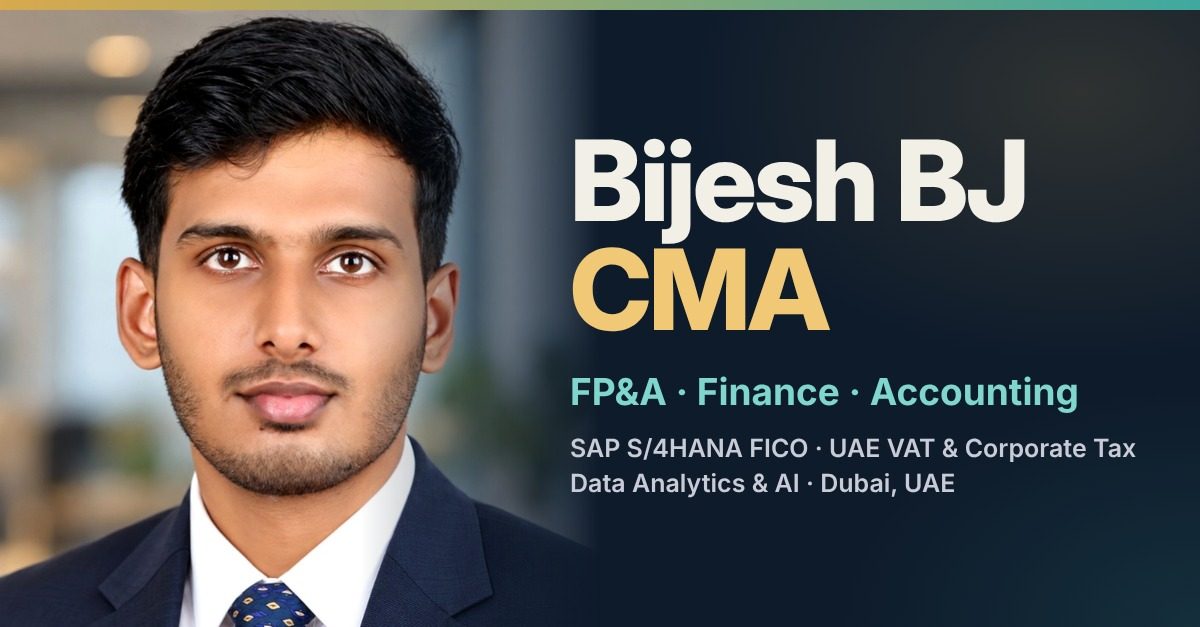
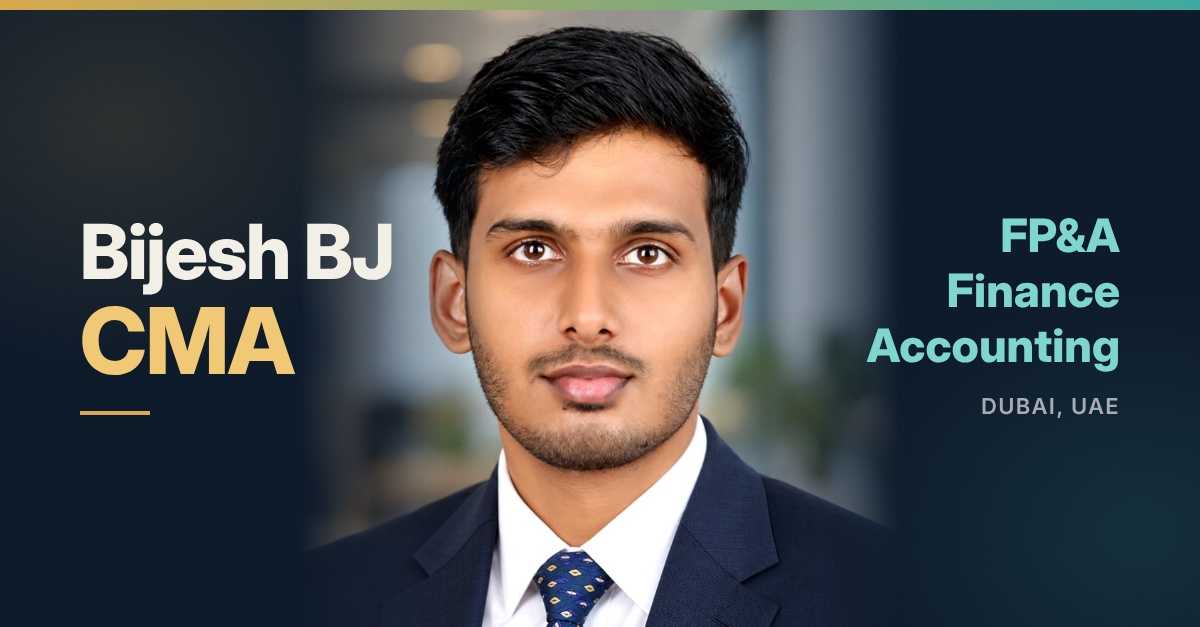
Preview card: centre and enlarge face for sharp small thumbnails
Claude-Session: https://claude.ai/code/session_01BNz9B2AMKDvx2qBeBHuAEm

diff --git a/projects/financial-model.html b/projects/financial-model.html
@@ -10,11 +10,11 @@
 <meta property="og:title" content="Integrated 3-Statement Financial Model & DCF Valuation — Bijesh BJ, CMA | Finance & FP&A | SAP FICO | Data Analytics">
 <meta property="og:description" content="Scenario-driven 3-statement model and DCF to CFI standards with Base / Upside / Downside cases, sensitivity grid and integrity checks.">
 <meta property="og:url" content="https://cmabijeshbj-web.github.io/projects/financial-model.html">
-<meta property="og:image" content="https://cmabijeshbj-web.github.io/assets/og-image.jpg?v=7">
+<meta property="og:image" content="https://cmabijeshbj-web.github.io/assets/og-image.jpg?v=9">
 <meta property="og:image:width" content="1200">
 <meta property="og:image:height" content="627">
 <meta property="og:image:alt" content="Bijesh BJ, CMA — Finance &amp; FP&amp;A Portfolio">
-<meta name="twitter:image" content="https://cmabijeshbj-web.github.io/assets/og-image.jpg?v=7">
+<meta name="twitter:image" content="https://cmabijeshbj-web.github.io/assets/og-image.jpg?v=9">
 <meta name="twitter:card" content="summary_large_image">
 <link rel="preconnect" href="https://fonts.googleapis.com">
 <link href="https://fonts.googleapis.com/css2?family=Space+Grotesk:wght@500;600;700&family=IBM+Plex+Sans:wght@400;500;600&family=IBM+Plex+Mono:wght@400;500&display=swap" rel="stylesheet">

diff --git a/projects/fpa-variance-kpi.html b/projects/fpa-variance-kpi.html
@@ -10,11 +10,11 @@
 <meta property="og:title" content="FP&A Performance, Variance & KPI Analysis — Bijesh BJ, CMA | Finance & FP&A | SAP FICO | Data Analytics">
 <meta property="og:description" content="CFO-style FP&A pack: budget vs actual across 5 business units and 6 regions, KPI scorecard, RAG status, variance bridge and auto-commentary.">
 <meta property="og:url" content="https://cmabijeshbj-web.github.io/projects/fpa-variance-kpi.html">
-<meta property="og:image" content="https://cmabijeshbj-web.github.io/assets/og-image.jpg?v=7">
+<meta property="og:image" content="https://cmabijeshbj-web.github.io/assets/og-image.jpg?v=9">
 <meta property="og:image:width" content="1200">
 <meta property="og:image:height" content="627">
 <meta property="og:image:alt" content="Bijesh BJ, CMA — Finance &amp; FP&amp;A Portfolio">
-<meta name="twitter:image" content="https://cmabijeshbj-web.github.io/assets/og-image.jpg?v=7">
+<meta name="twitter:image" content="https://cmabijeshbj-web.github.io/assets/og-image.jpg?v=9">
 <meta name="twitter:card" content="summary_large_image">
 <link rel="preconnect" href="https://fonts.googleapis.com">
 <link href="https://fonts.googleapis.com/css2?family=Space+Grotesk:wght@500;600;700&family=IBM+Plex+Sans:wght@400;500;600&family=IBM+Plex+Mono:wght@400;500&display=swap" rel="stylesheet">

diff --git a/projects/uae-corporate-tax.html b/projects/uae-corporate-tax.html
@@ -10,11 +10,11 @@
 <meta property="og:title" content="UAE Corporate Tax Computation Model — Bijesh BJ, CMA | Finance & FP&A | SAP FICO | Data Analytics">
 <meta property="og:description" content="UAE corporate tax computation: ledger-driven add-backs, exempt income, interest limitation, loss relief, 0%/9% bands and rate reconciliation.">
 <meta property="og:url" content="https://cmabijeshbj-web.github.io/projects/uae-corporate-tax.html">
-<meta property="og:image" content="https://cmabijeshbj-web.github.io/assets/og-image.jpg?v=7">
+<meta property="og:image" content="https://cmabijeshbj-web.github.io/assets/og-image.jpg?v=9">
 <meta property="og:image:width" content="1200">
 <meta property="og:image:height" content="627">
 <meta property="og:image:alt" content="Bijesh BJ, CMA — Finance &amp; FP&amp;A Portfolio">
-<meta name="twitter:image" content="https://cmabijeshbj-web.github.io/assets/og-image.jpg?v=7">
+<meta name="twitter:image" content="https://cmabijeshbj-web.github.io/assets/og-image.jpg?v=9">
 <meta name="twitter:card" content="summary_large_image">
 <link rel="preconnect" href="https://fonts.googleapis.com">
 <link href="https://fonts.googleapis.com/css2?family=Space+Grotesk:wght@500;600;700&family=IBM+Plex+Sans:wght@400;500;600&family=IBM+Plex+Mono:wght@400;500&display=swap" rel="stylesheet">

diff --git a/projects/sql-analysis.html b/projects/sql-analysis.html
@@ -10,11 +10,11 @@
 <meta property="og:title" content="Financial Data Analysis Using SQL — Bijesh BJ, CMA | Finance & FP&A | SAP FICO | Data Analytics">
 <meta property="og:description" content="14 tested SQL queries on a 1,785-invoice billing register: growth, margin, concentration, receivables ageing, DSO and collection risk.">
 <meta property="og:url" content="https://cmabijeshbj-web.github.io/projects/sql-analysis.html">
-<meta property="og:image" content="https://cmabijeshbj-web.github.io/assets/og-image.jpg?v=7">
+<meta property="og:image" content="https://cmabijeshbj-web.github.io/assets/og-image.jpg?v=9">
 <meta property="og:image:width" content="1200">
 <meta property="og:image:height" content="627">
 <meta property="og:image:alt" content="Bijesh BJ, CMA — Finance &amp; FP&amp;A Portfolio">
-<meta name="twitter:image" content="https://cmabijeshbj-web.github.io/assets/og-image.jpg?v=7">
+<meta name="twitter:image" content="https://cmabijeshbj-web.github.io/assets/og-image.jpg?v=9">
 <meta name="twitter:card" content="summary_large_image">
 <link rel="preconnect" href="https://fonts.googleapis.com">
 <link href="https://fonts.googleapis.com/css2?family=Space+Grotesk:wght@500;600;700&family=IBM+Plex+Sans:wght@400;500;600&family=IBM+Plex+Mono:wght@400;500&display=swap" rel="stylesheet">

diff --git a/projects/powerbi-dashboard.html b/projects/powerbi-dashboard.html
@@ -10,11 +10,11 @@
 <meta property="og:title" content="Interactive FP&A Analytics Dashboard — Bijesh BJ, CMA | Finance & FP&A | SAP FICO | Data Analytics">
 <meta property="og:description" content="Interactive executive dashboard: FY / BU / Region filters drive every KPI, chart, heatmap, bridge and commentary.">
 <meta property="og:url" content="https://cmabijeshbj-web.github.io/projects/powerbi-dashboard.html">
-<meta property="og:image" content="https://cmabijeshbj-web.github.io/assets/og-image.jpg?v=7">
+<meta property="og:image" content="https://cmabijeshbj-web.github.io/assets/og-image.jpg?v=9">
 <meta property="og:image:width" content="1200">
 <meta property="og:image:height" content="627">
 <meta property="og:image:alt" content="Bijesh BJ, CMA — Finance &amp; FP&amp;A Portfolio">
-<meta name="twitter:image" content="https://cmabijeshbj-web.github.io/assets/og-image.jpg?v=7">
+<meta name="twitter:image" content="https://cmabijeshbj-web.github.io/assets/og-image.jpg?v=9">
 <meta name="twitter:card" content="summary_large_image">
 <link rel="preconnect" href="https://fonts.googleapis.com">
 <link href="https://fonts.googleapis.com/css2?family=Space+Grotesk:wght@500;600;700&family=IBM+Plex+Sans:wght@400;500;600&family=IBM+Plex+Mono:wght@400;500&display=swap" rel="stylesheet">

diff --git a/projects/uae-vat.html b/projects/uae-vat.html
@@ -10,11 +10,11 @@
 <meta property="og:title" content="UAE VAT Calculation, Return & Reconciliation — Bijesh BJ, CMA | Finance & FP&A | SAP FICO | Data Analytics">
 <meta property="og:description" content="UAE VAT compliance pack: 1,250 invoices mapped to VAT 201, exception testing and turnover reconciliation.">
 <meta property="og:url" content="https://cmabijeshbj-web.github.io/projects/uae-vat.html">
-<meta property="og:image" content="https://cmabijeshbj-web.github.io/assets/og-image.jpg?v=7">
+<meta property="og:image" content="https://cmabijeshbj-web.github.io/assets/og-image.jpg?v=9">
 <meta property="og:image:width" content="1200">
 <meta property="og:image:height" content="627">
 <meta property="og:image:alt" content="Bijesh BJ, CMA — Finance &amp; FP&amp;A Portfolio">
-<meta name="twitter:image" content="https://cmabijeshbj-web.github.io/assets/og-image.jpg?v=7">
+<meta name="twitter:image" content="https://cmabijeshbj-web.github.io/assets/og-image.jpg?v=9">
 <meta name="twitter:card" content="summary_large_image">
 <link rel="preconnect" href="https://fonts.googleapis.com">
 <link href="https://fonts.googleapis.com/css2?family=Space+Grotesk:wght@500;600;700&family=IBM+Plex+Sans:wght@400;500;600&family=IBM+Plex+Mono:wght@400;500&display=swap" rel="stylesheet">

diff --git a/certifications.html b/certifications.html
@@ -10,11 +10,11 @@
 <meta property="og:title" content="Education & Certifications — Bijesh BJ, CMA | Finance & FP&A | SAP FICO | Data Analytics">
 <meta property="og:description" content="Education and certifications held by Bijesh BJ — CMA, IMA Data Analytics, UAE VAT and Corporate Tax, M.Com, B.Com.">
 <meta property="og:url" content="https://cmabijeshbj-web.github.io/certifications.html">
-<meta property="og:image" content="https://cmabijeshbj-web.github.io/assets/og-image.jpg?v=7">
+<meta property="og:image" content="https://cmabijeshbj-web.github.io/assets/og-image.jpg?v=9">
 <meta property="og:image:width" content="1200">
 <meta property="og:image:height" content="627">
 <meta property="og:image:alt" content="Bijesh BJ, CMA — Finance &amp; FP&amp;A Portfolio">
-<meta name="twitter:image" content="https://cmabijeshbj-web.github.io/assets/og-image.jpg?v=7">
+<meta name="twitter:image" content="https://cmabijeshbj-web.github.io/assets/og-image.jpg?v=9">
 <meta name="twitter:card" content="summary_large_image">
 <link rel="preconnect" href="https://fonts.googleapis.com">
 <link href="https://fonts.googleapis.com/css2?family=Space+Grotesk:wght@500;600;700&family=IBM+Plex+Sans:wght@400;500;600&family=IBM+Plex+Mono:wght@400;500&display=swap" rel="stylesheet">

diff --git a/projects/powerbi-dashboard-live.html b/projects/powerbi-dashboard-live.html
@@ -10,11 +10,11 @@
 <meta property="og:title" content="Executive FP&A Dashboard (Live) — Bijesh BJ, CMA">
 <meta property="og:description" content="Interactive executive FP&A dashboard with FY / BU / Region filters, variance bridge, heatmap and receivables ageing.">
 <meta property="og:url" content="https://cmabijeshbj-web.github.io/projects/powerbi-dashboard-live.html">
-<meta property="og:image" content="https://cmabijeshbj-web.github.io/assets/og-image.jpg?v=7">
+<meta property="og:image" content="https://cmabijeshbj-web.github.io/assets/og-image.jpg?v=9">
 <meta property="og:image:width" content="1200">
 <meta property="og:image:height" content="627">
 <meta property="og:image:alt" content="Bijesh BJ, CMA — Finance &amp; FP&amp;A Portfolio">
-<meta name="twitter:image" content="https://cmabijeshbj-web.github.io/assets/og-image.jpg?v=7">
+<meta name="twitter:image" content="https://cmabijeshbj-web.github.io/assets/og-image.jpg?v=9">
 <meta name="twitter:card" content="summary_large_image">
 <link rel="preconnect" href="https://fonts.googleapis.com">
 <link href="https://fonts.googleapis.com/css2?family=Space+Grotesk:wght@500;600;700&family=IBM+Plex+Sans:wght@400;500;600&family=IBM+Plex+Mono:wght@400;500&display=swap" rel="stylesheet">

diff --git a/index.html b/index.html
@@ -10,11 +10,11 @@
 <meta property="og:title" content="Bijesh BJ, CMA | Finance & FP&A | SAP FICO | Data Analytics">
 <meta property="og:description" content="Finance & FP&A portfolio of Bijesh BJ, CMA — FP&A, SAP FICO, UAE VAT & Corporate Tax, HTML dashboards, SQL, Python and VBA with AI.">
 <meta property="og:url" content="https://cmabijeshbj-web.github.io/">
-<meta property="og:image" content="https://cmabijeshbj-web.github.io/assets/og-image.jpg?v=7">
+<meta property="og:image" content="https://cmabijeshbj-web.github.io/assets/og-image.jpg?v=9">
 <meta property="og:image:width" content="1200">
 <meta property="og:image:height" content="627">
 <meta property="og:image:alt" content="Bijesh BJ, CMA — Finance &amp; FP&amp;A Portfolio">
-<meta name="twitter:image" content="https://cmabijeshbj-web.github.io/assets/og-image.jpg?v=7">
+<meta name="twitter:image" content="https://cmabijeshbj-web.github.io/assets/og-image.jpg?v=9">
 <meta name="twitter:card" content="summary_large_image">
 <link rel="preconnect" href="https://fonts.googleapis.com">
 <link href="https://fonts.googleapis.com/css2?family=Space+Grotesk:wght@500;600;700&family=IBM+Plex+Sans:wght@400;500;600&family=IBM+Plex+Mono:wght@400;500&display=swap" rel="stylesheet">

diff --git a/experience.html b/experience.html
@@ -10,11 +10,11 @@
 <meta property="og:title" content="Experience — Bijesh BJ, CMA | Finance & FP&A | SAP FICO | Data Analytics">
 <meta property="og:description" content="Career journey of Bijesh BJ — FP&A, business finance, accounting and tax experience.">
 <meta property="og:url" content="https://cmabijeshbj-web.github.io/experience.html">
-<meta property="og:image" content="https://cmabijeshbj-web.github.io/assets/og-image.jpg?v=7">
+<meta property="og:image" content="https://cmabijeshbj-web.github.io/assets/og-image.jpg?v=9">
 <meta property="og:image:width" content="1200">
 <meta property="og:image:height" content="627">
 <meta property="og:image:alt" content="Bijesh BJ, CMA — Finance &amp; FP&amp;A Portfolio">
-<meta name="twitter:image" content="https://cmabijeshbj-web.github.io/assets/og-image.jpg?v=7">
+<meta name="twitter:image" content="https://cmabijeshbj-web.github.io/assets/og-image.jpg?v=9">
 <meta name="twitter:card" content="summary_large_image">
 <link rel="preconnect" href="https://fonts.googleapis.com">
 <link href="https://fonts.googleapis.com/css2?family=Space+Grotesk:wght@500;600;700&family=IBM+Plex+Sans:wght@400;500;600&family=IBM+Plex+Mono:wght@400;500&display=swap" rel="stylesheet">

diff --git a/projects.html b/projects.html
@@ -10,11 +10,11 @@
 <meta property="og:title" content="Projects — Bijesh BJ, CMA | Finance & FP&A | SAP FICO | Data Analytics">
 <meta property="og:description" content="FP&A, financial modeling, UAE tax, SQL and Power BI demonstration projects by Bijesh BJ.">
 <meta property="og:url" content="https://cmabijeshbj-web.github.io/projects.html">
-<meta property="og:image" content="https://cmabijeshbj-web.github.io/assets/og-image.jpg?v=7">
+<meta property="og:image" content="https://cmabijeshbj-web.github.io/assets/og-image.jpg?v=9">
 <meta property="og:image:width" content="1200">
 <meta property="og:image:height" content="627">
 <meta property="og:image:alt" content="Bijesh BJ, CMA — Finance &amp; FP&amp;A Portfolio">
-<meta name="twitter:image" content="https://cmabijeshbj-web.github.io/assets/og-image.jpg?v=7">
+<meta name="twitter:image" content="https://cmabijeshbj-web.github.io/assets/og-image.jpg?v=9">
 <meta name="twitter:card" content="summary_large_image">
 <link rel="preconnect" href="https://fonts.googleapis.com">
 <link href="https://fonts.googleapis.com/css2?family=Space+Grotesk:wght@500;600;700&family=IBM+Plex+Sans:wght@400;500;600&family=IBM+Plex+Mono:wght@400;500&display=swap" rel="stylesheet">

diff --git a/contact.html b/contact.html
@@ -10,11 +10,11 @@
 <meta property="og:title" content="Contact — Bijesh BJ, CMA | Finance & FP&A | SAP FICO | Data Analytics">
 <meta property="og:description" content="Get in touch with Bijesh BJ — CMA, FP&A professional based in Dubai, UAE.">
 <meta property="og:url" content="https://cmabijeshbj-web.github.io/contact.html">
-<meta property="og:image" content="https://cmabijeshbj-web.github.io/assets/og-image.jpg?v=7">
+<meta property="og:image" content="https://cmabijeshbj-web.github.io/assets/og-image.jpg?v=9">
 <meta property="og:image:width" content="1200">
 <meta property="og:image:height" content="627">
 <meta property="og:image:alt" content="Bijesh BJ, CMA — Finance &amp; FP&amp;A Portfolio">
-<meta name="twitter:image" content="https://cmabijeshbj-web.github.io/assets/og-image.jpg?v=7">
+<meta name="twitter:image" content="https://cmabijeshbj-web.github.io/assets/og-image.jpg?v=9">
 <meta name="twitter:card" content="summary_large_image">
 <link rel="preconnect" href="https://fonts.googleapis.com">
 <link href="https://fonts.googleapis.com/css2?family=Space+Grotesk:wght@500;600;700&family=IBM+Plex+Sans:wght@400;500;600&family=IBM+Plex+Mono:wght@400;500&display=swap" rel="stylesheet">
